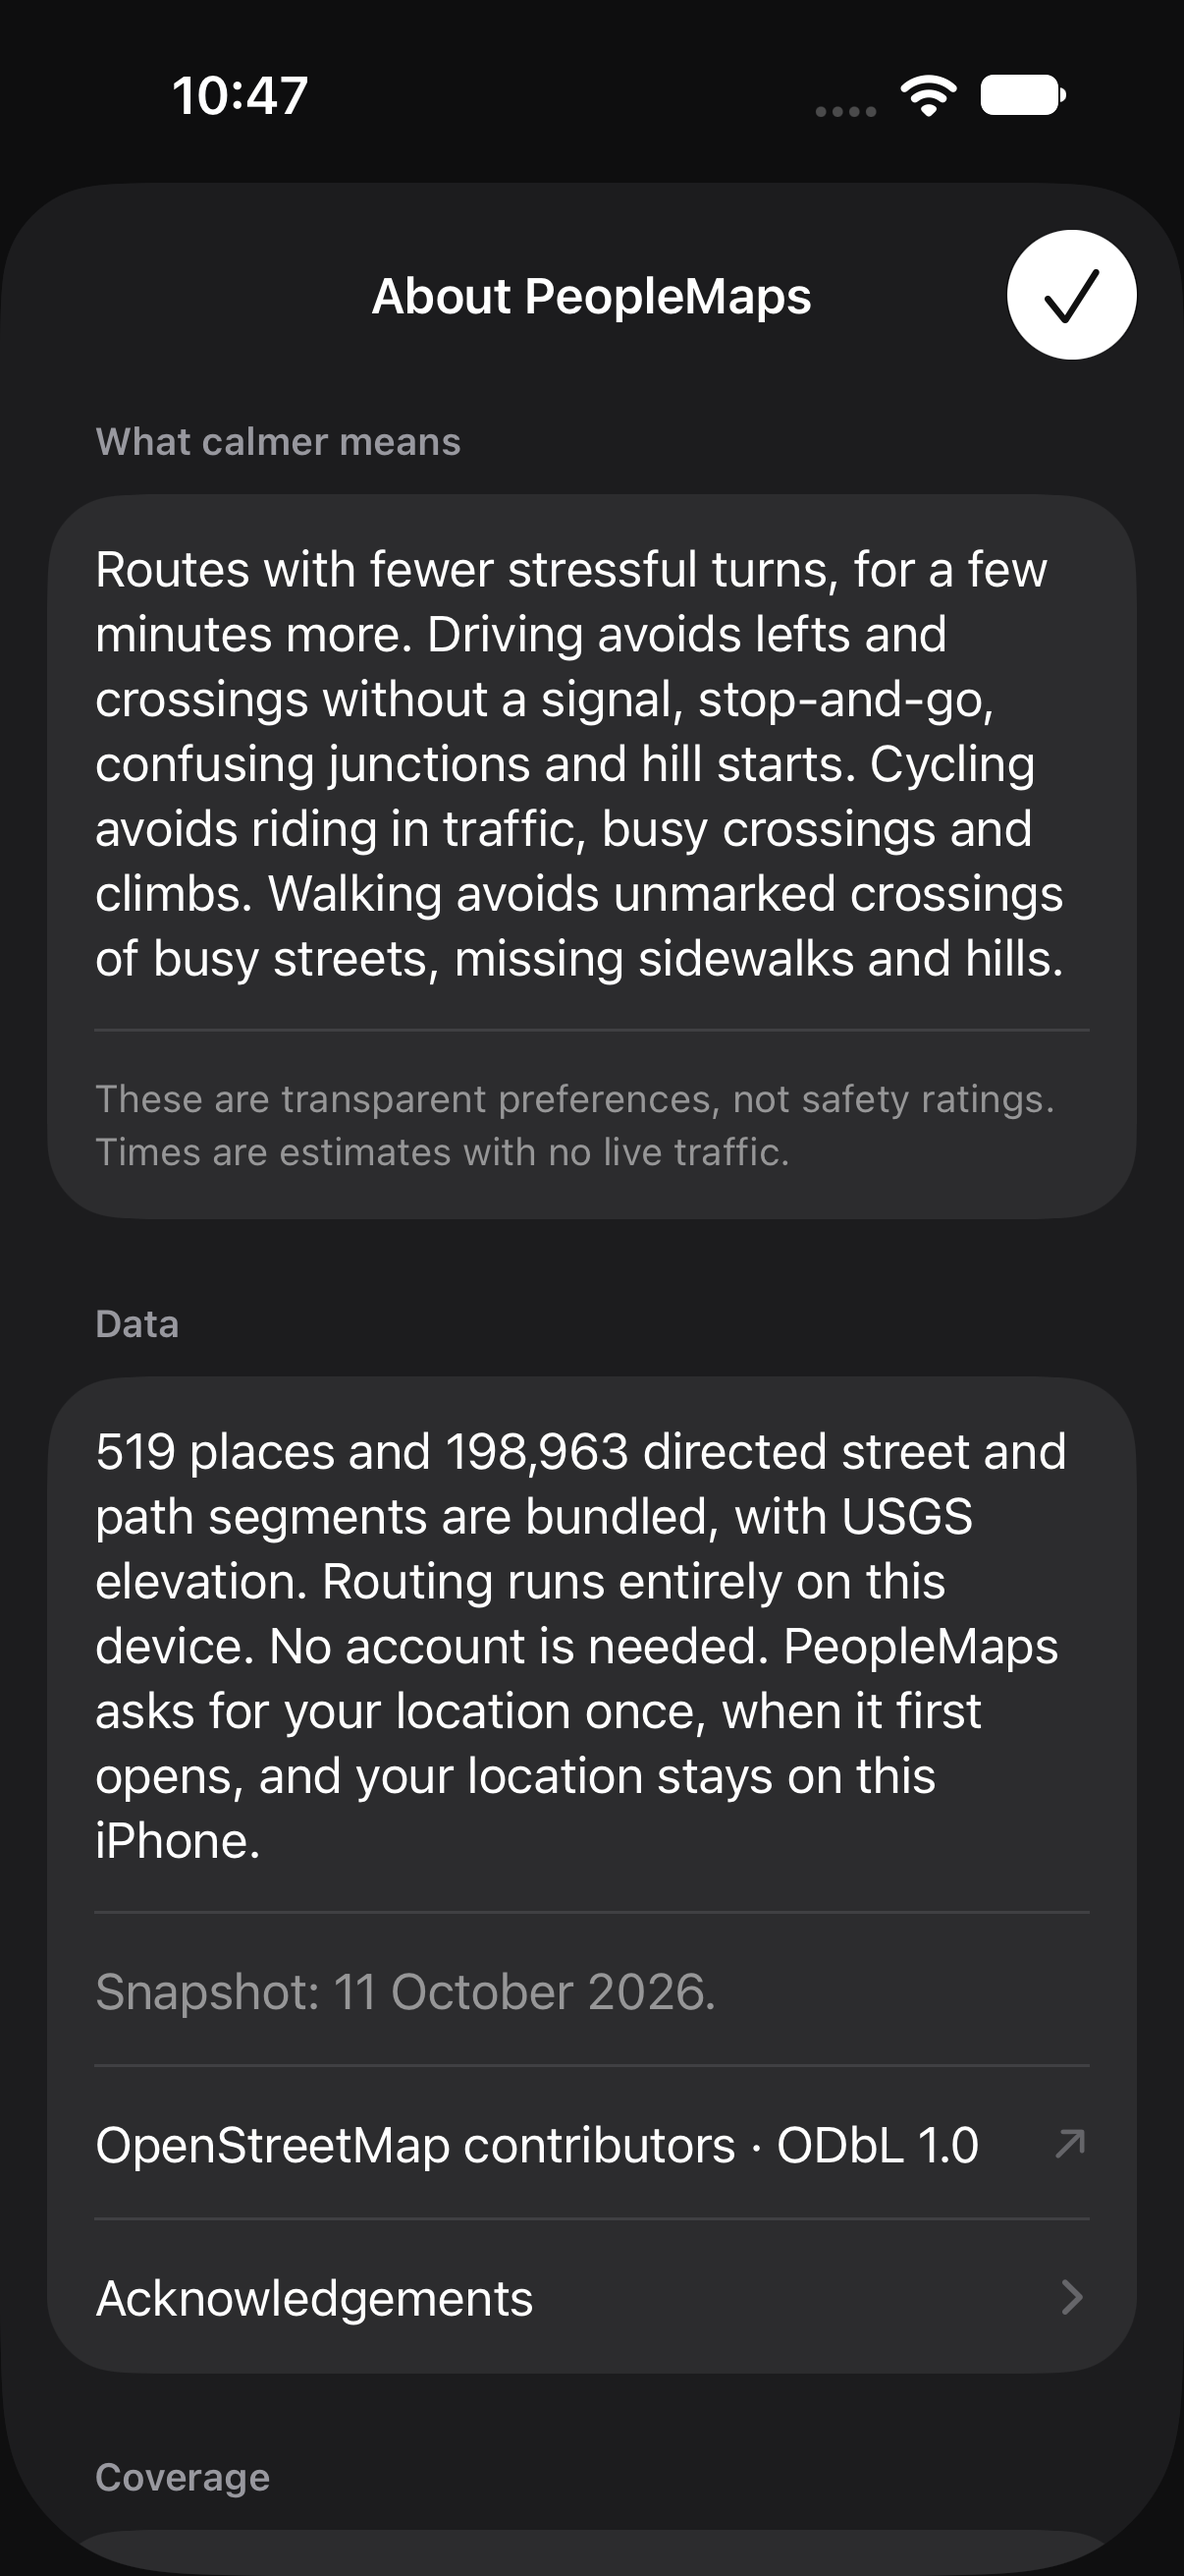
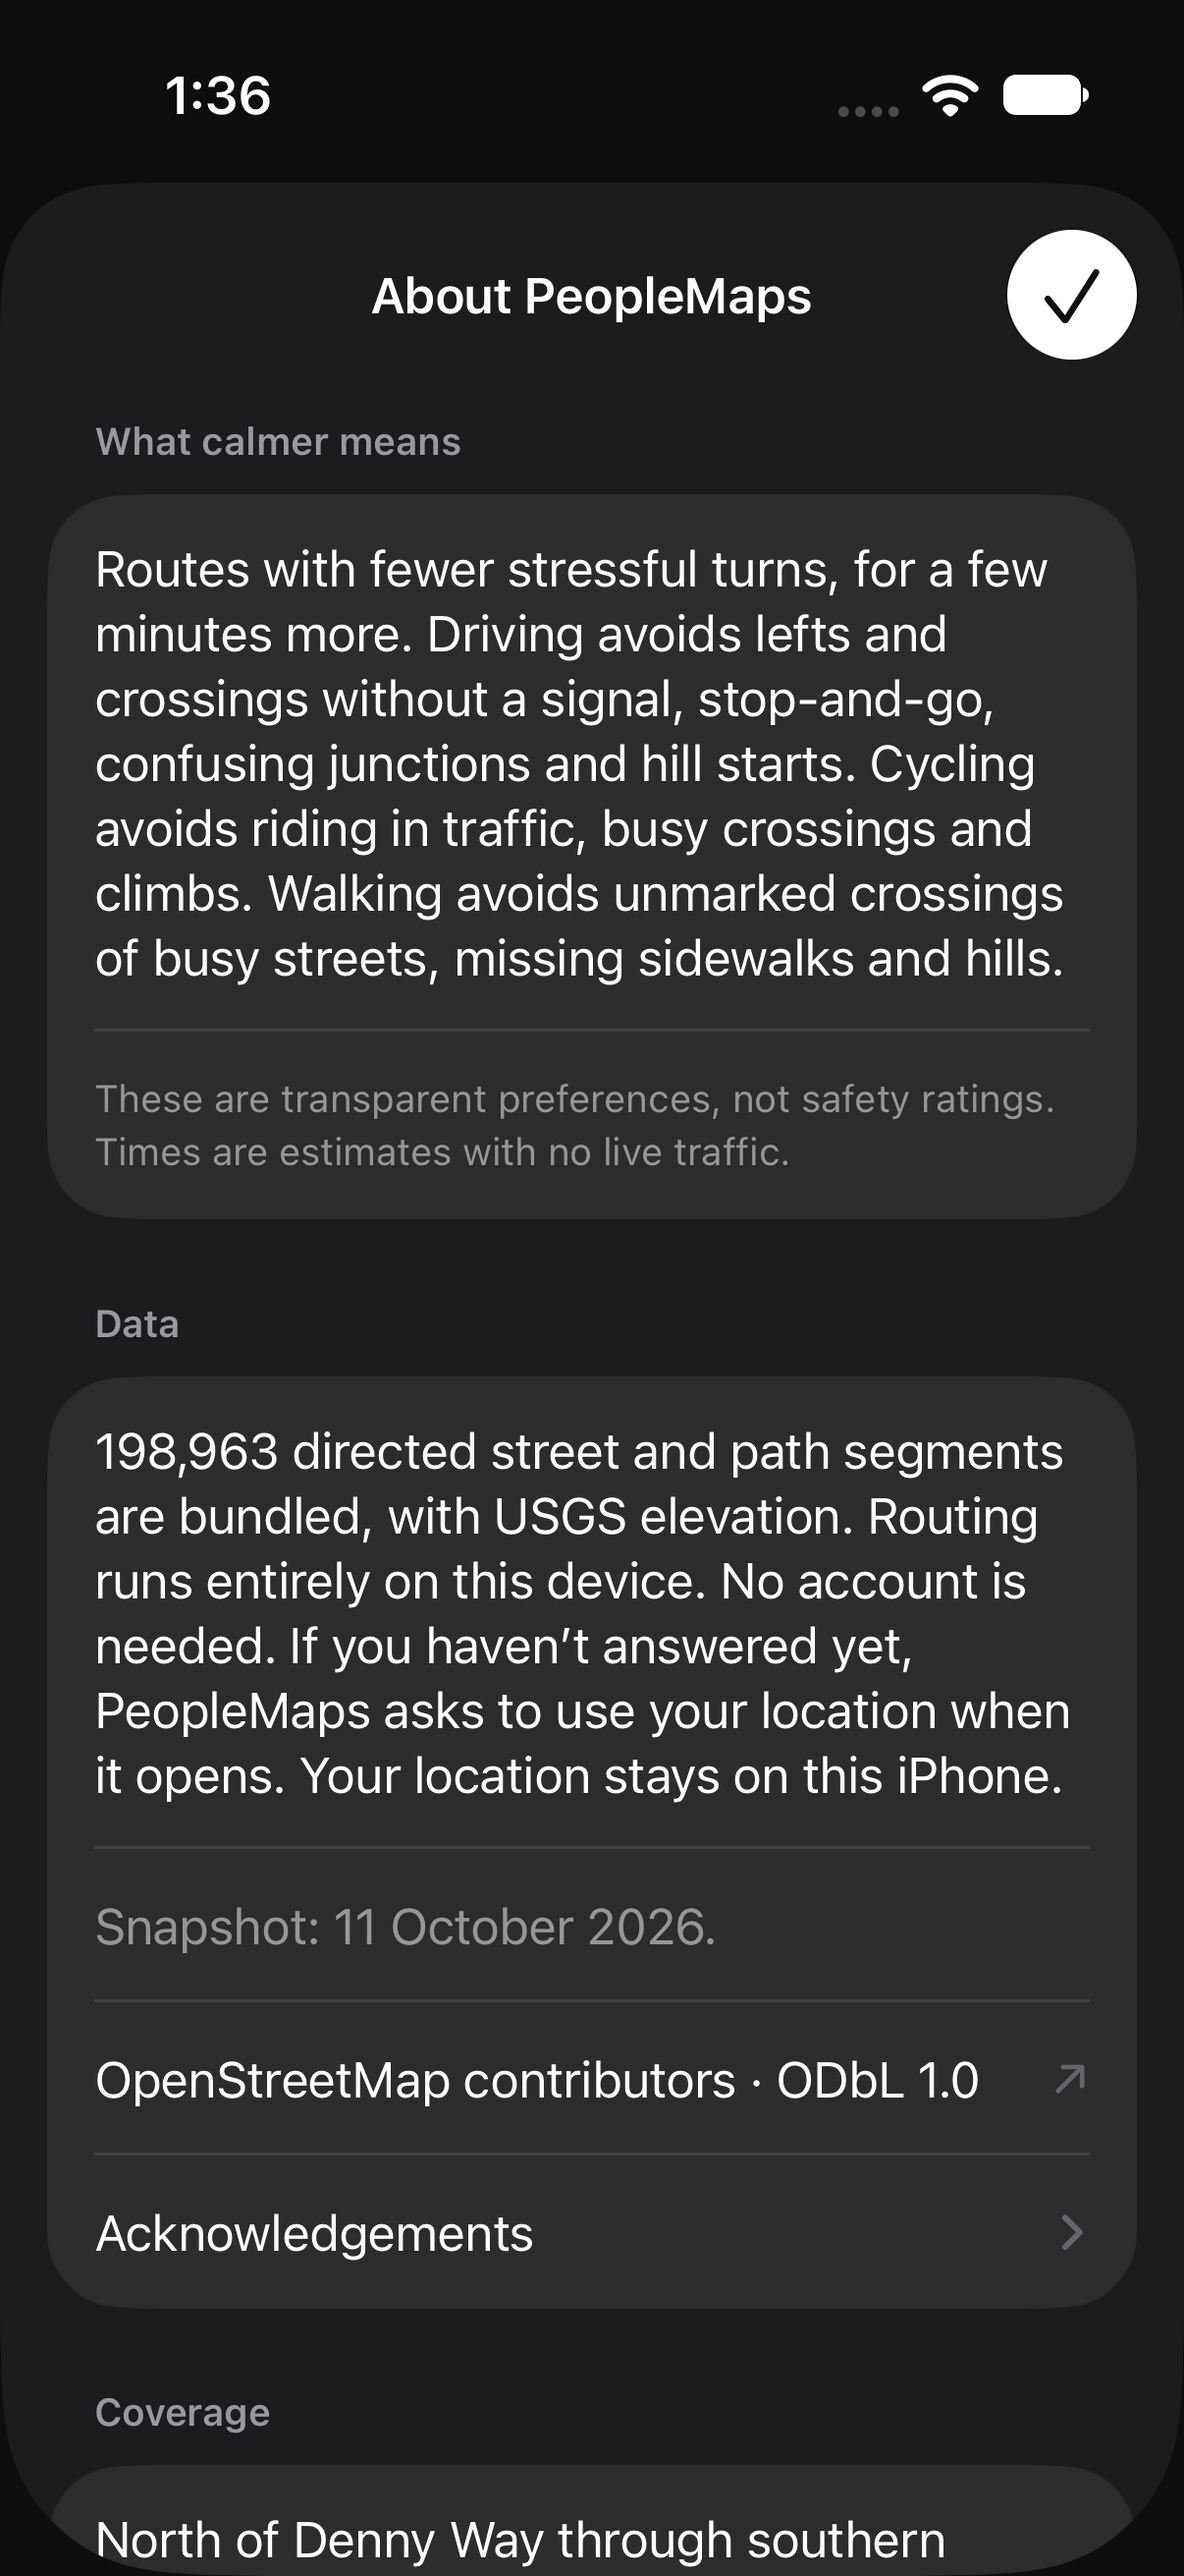
Picker distances from the user, wrapping rows at large type, stronger row tests, About copy, visible picker groups

diff --git a/UITests/PeoplemapsUITests.swift b/UITests/PeoplemapsUITests.swift
@@ -781,12 +781,49 @@ final class PeoplemapsUITests: XCTestCase {
         field.typeText("park")
         let result = app.buttons["result-relation/1047789"]
         XCTAssertTrue(result.waitForExistence(timeout: 5))
-        XCTAssertTrue(result.label.contains("OpenStreetMap"), result.label)
+        // The visible source line, not just the VoiceOver label.
+        XCTAssertTrue(result.staticTexts["OpenStreetMap, Oct 2026"].exists, result.debugDescription)
+        XCTAssertTrue(result.label.hasSuffix(", OpenStreetMap, Oct 2026"), result.label)
         app.buttons["cancel-search-home"].tap()
         app.buttons["search-field"].tap()
         XCTAssertTrue(field.waitForExistence(timeout: 5))
         field.typeText("unfindableXYZ")
         XCTAssertTrue(app.descendants(matching: .any)["search-empty"].waitForExistence(timeout: 5))
+    }
+
+    /// VoiceOver order (DESIGN section 7): name, category, address or area, source and date.
+    @MainActor func testAddressRowLabelOrder() {
+        let app = launchHome()
+        app.buttons["search-field"].tap()
+        let field = app.textFields["search-input"]
+        XCTAssertTrue(field.waitForExistence(timeout: 5))
+        field.typeText("3400 Fremont Ave N")
+        let result = app.buttons["result-node/2652117839"]
+        XCTAssertTrue(result.waitForExistence(timeout: 5))
+        XCTAssertEqual(result.label, "3400 Fremont Avenue North, Address, Fremont, OpenStreetMap, Oct 2026")
+        XCTAssertTrue(result.staticTexts["Address \u{00B7} Fremont"].exists, result.debugDescription)
+        XCTAssertTrue(result.staticTexts["OpenStreetMap, Oct 2026"].exists)
+    }
+
+    /// Picker distances run from where the user is, not from the place being replaced, and are absent when that is unknown.
+    @MainActor func testPickerDistanceIsFromTheUser() {
+        let app = launch()
+        app.buttons["choose-origin"].tap()
+        pick(app, "Fremont Branch", id: "way/37058377")
+        XCTAssertTrue(app.buttons["route-fastest"].waitForExistence(timeout: 10))
+        app.buttons["choose-origin"].tap()
+        let gasWorks = app.buttons["place-recent-relation/1047789"]
+        XCTAssertTrue(gasWorks.waitForExistence(timeout: 5))
+        // The user is at Kerry Park, 1.6 mi from Gas Works; the start place (Fremont) is under a mile away.
+        let measured = NSPredicate { _, _ in gasWorks.label.contains("1.6 miles") }
+        XCTAssertEqual(XCTWaiter().wait(for: [XCTNSPredicateExpectation(predicate: measured, object: nil)], timeout: 10), .completed, gasWorks.label)
+        capture("14b-picker-distance", app: app)
+        app.buttons["cancel-search"].tap()
+        // The destination picker doesn't know where the user is, so it shows no distances.
+        app.buttons["choose-destination"].tap()
+        let recent = app.buttons["place-recent-relation/1047789"]
+        XCTAssertTrue(recent.waitForExistence(timeout: 5))
+        XCTAssertFalse(recent.label.contains("mile") || recent.label.contains("feet"), recent.label)
     }
 
     @MainActor func testFavouritesAndDroppedPinInLandscape() {

diff --git a/App/PlacePicker.swift b/App/PlacePicker.swift
@@ -9,15 +9,18 @@ struct PlacePicker: View {
     let saved: SavedPlacesStore
     /// Set for the origin: offers "Current location" unless location is denied.
     let location: LocationPermission?
+    /// Where distances are measured from when `location` can't say (the user's position, never the place being replaced).
+    var near: Coordinate?
     let onSelect: (Place) -> Void
     @Environment(\.dismiss) private var dismiss
     @State private var query = ""
     @State private var access: LocationPermission.Access
     @State private var locating = false
     @State private var locationFailed = false
+    @State private var here: Coordinate?
 
-    init(title: String, search: SearchIndex, selected: Place?, saved: SavedPlacesStore, location: LocationPermission? = nil, onSelect: @escaping (Place) -> Void) {
-        self.title = title; self.search = search; self.selected = selected; self.saved = saved; self.location = location; self.onSelect = onSelect
+    init(title: String, search: SearchIndex, selected: Place?, saved: SavedPlacesStore, location: LocationPermission? = nil, near: Coordinate? = nil, onSelect: @escaping (Place) -> Void) {
+        self.title = title; self.search = search; self.selected = selected; self.saved = saved; self.location = location; self.near = near; self.onSelect = onSelect
         _access = State(initialValue: location?.access ?? .denied)
     }
 
@@ -48,7 +51,10 @@ struct PlacePicker: View {
                 }.padding(.horizontal, 16)
             }
             .scrollDismissesKeyboard(.interactively)
-            .background(Color(uiColor: .systemGroupedBackground))
+            .task {
+                guard let location, access == .granted, let c = await location.currentCoordinate() else { return }
+                here = Coordinate(lat: c.latitude, lon: c.longitude)
+            }
             .navigationTitle(title).navigationBarTitleDisplayMode(.inline)
             .toolbar { ToolbarItem(placement: .cancellationAction) { Button(role: .close) { dismiss() }.accessibilityIdentifier("cancel-search") } }
         }.tint(.primary)
@@ -58,13 +64,13 @@ struct PlacePicker: View {
         VStack(alignment: .leading, spacing: 6) {
             Text(title).font(.footnote.weight(.semibold)).foregroundStyle(.secondary).padding(.leading, 16)
                 .accessibilityAddTraits(.isHeader)
-            PlaceList(places: places, query: query, selectedID: selected?.id, near: selected?.coordinate, identifier: { prefix + $0.id }) {
+            PlaceList(places: places, query: query, selectedID: selected?.id, near: here ?? near, identifier: { prefix + $0.id }) {
                 onSelect($0); dismiss()
             }
         }
     }
 
-    /// Asks for permission only here, on a tap. A refusal hides the row and is never raised again.
+    /// Reads the fix, asking for permission first if the user hasn\u{2019}t answered yet; a refusal hides the row.
     private func useCurrentLocation() {
         guard let location, !locating else { return }
         locating = true; locationFailed = false

diff --git a/App/PlaceRow.swift b/App/PlaceRow.swift
@@ -14,23 +14,27 @@ struct PlaceRow: View {
     private var searching: Bool { !query.trimmingCharacters(in: .whitespacesAndNewlines).isEmpty }
     private var meters: Double? { near.map { $0.distance(to: place.coordinate) } }
 
+    @Environment(\.dynamicTypeSize) private var typeSize
+
     var body: some View {
         Button(action: action) {
             HStack(spacing: 12) {
                 CategoryBadge(badge: place.badge, raw: place.category)
                 VStack(alignment: .leading, spacing: 1) {
-                    Text(title).font(.body).foregroundStyle(.primary).lineLimit(2)
-                    Text(place.subtitle).font(.subheadline).foregroundStyle(.secondary).lineLimit(3)
+                    Text(title).font(.body).foregroundStyle(.primary).lineLimit(typeSize.isAccessibilitySize ? nil : 2)
+                    Text(place.subtitle).font(.subheadline).foregroundStyle(.secondary)
                     if searching, let source = place.source {
-                        Text(source).font(.caption).foregroundStyle(.secondary).lineLimit(2)
+                        Text(source).font(.caption).foregroundStyle(.secondary)
                     }
+                    if typeSize.isAccessibilitySize, !selected, let distance { distance }
                 }
+                .fixedSize(horizontal: false, vertical: true)
                 Spacer(minLength: 0)
                 if selected {
                     Image(systemName: "checkmark").font(.body.weight(.semibold)).foregroundStyle(.primary)
-                } else if let meters {
-                    Text(NavigationFormat.distance(meters)).font(.subheadline.monospacedDigit()).foregroundStyle(.secondary)
-                } else {
+                } else if !typeSize.isAccessibilitySize, let distance {
+                    distance
+                } else if meters == nil {
                     Image(systemName: "chevron.right").font(.footnote.weight(.semibold)).foregroundStyle(.tertiary)
                 }
             }
@@ -38,6 +42,10 @@ struct PlaceRow: View {
         }
         .buttonStyle(.plain)
         .accessibilityLabel(label)
+    }
+
+    private var distance: Text? {
+        meters.map { Text(NavigationFormat.distance($0)).font(.subheadline.monospacedDigit()).foregroundColor(.secondary) }
     }
 
     private var label: String {

diff --git a/App/RouteDetails.swift b/App/RouteDetails.swift
@@ -99,7 +99,7 @@ struct AboutView: View {
                     Text("These are transparent preferences, not safety ratings. Times are estimates with no live traffic.").font(.footnote).foregroundStyle(.secondary)
                 } header: { header("What calmer means") }
                 Section {
-                    Text("\(graph.places.count) places and \(graph.edges.count.formatted()) directed street and path segments are bundled, with USGS elevation. Routing runs entirely on this device. No account is needed. PeopleMaps asks for your location once, when it first opens, and your location stays on this iPhone.")
+                    Text("\(graph.edges.count.formatted()) directed street and path segments are bundled, with USGS elevation. Routing runs entirely on this device. No account is needed. If you haven\u{2019}t answered yet, PeopleMaps asks to use your location when it opens. Your location stays on this iPhone.")
                     Text("Snapshot: 11 October 2026.").foregroundStyle(.secondary)
                     externalLink("OpenStreetMap contributors · ODbL 1.0", "https://www.openstreetmap.org/copyright")
                     NavigationLink("Acknowledgements") { AcknowledgementsView() }.accessibilityIdentifier("acknowledgements")
